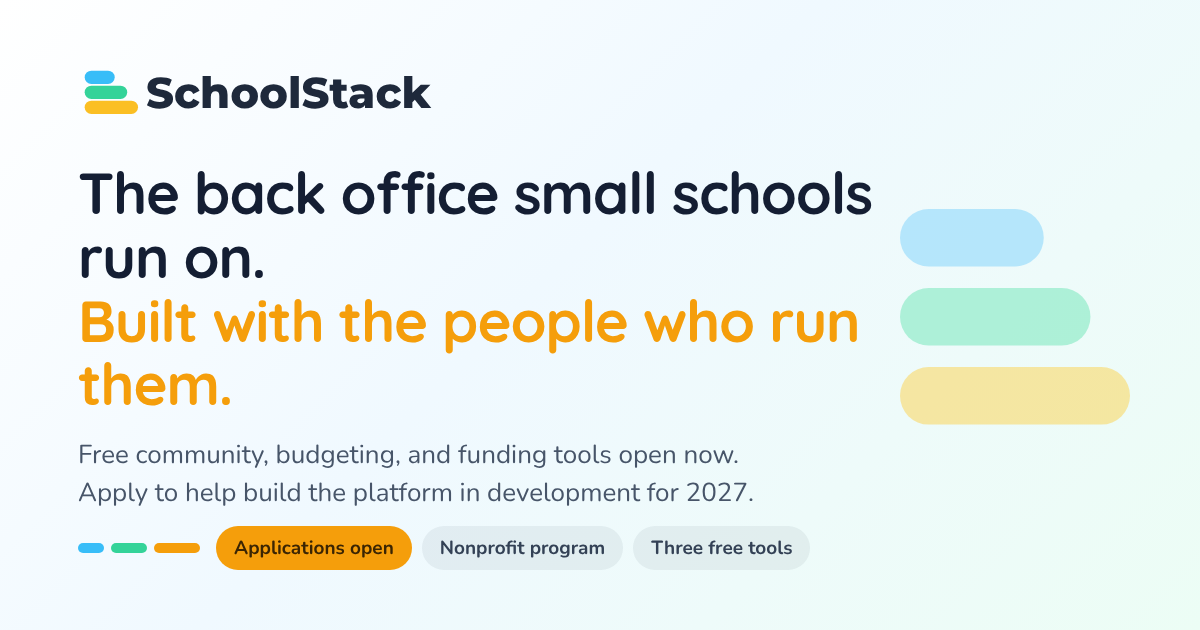
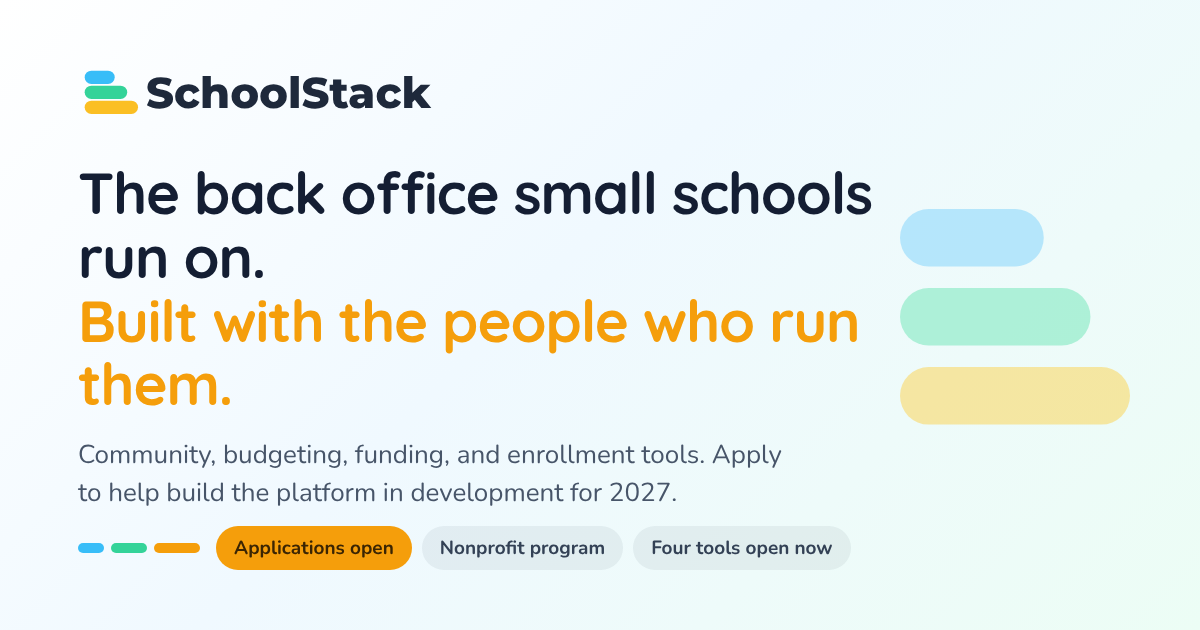
Add an Enrollment Path card and count four tools
Per the owner: four tools on the home page, the word "free" off the tools
copy, and Teal for the new card.

- A teal Enrollment Path card after Space, Budget and Access, with the
  owner's text and a "Start your audit" link to /enrollment/ in the same
  tab. No logo file exists yet, so the name is set in the same lockup as
  the others with a stacked-bar mark in teal. The grid goes two by two.
- Four tools wherever the site counts them: hero, tools section, design
  partner note, application confirmation, FAQ and its structured data,
  footer on every page, metadata and the share card (rebuilt).
- The tools section reads "Available today" and the hero button "Explore
  the tools". The FAQ's cost answer still names Space, Budget and Access.
- /enrollment redirects to /enrollment/, so both addresses open the tool.
- verify-render no longer treats "four tools" as a retired phrase: it was
  on the list while the fourth tool was Lending Lab. The Lending Lab checks
  stay.

Checked in a browser with the real headers: both addresses load the
example audit with no console errors and no sideways scroll at 390px, and
the card opens the tool.

Claude-Session: https://claude.ai/code/session_016gTnYXw1uXBTqiX4YJ5rRm

Changed region(s): [[0.0617, 0.6937, 0.6475, 0.8143], [0.5242, 0.8444, 0.7092, 0.9048]]

diff --git a/index.html b/index.html
@@ -4,7 +4,7 @@
   <meta charset="UTF-8">
   <meta name="viewport" content="width=device-width, initial-scale=1.0">
   <title>SchoolStack.ai | Back-Office Tools for Small Schools</title>
-  <meta name="description" content="Use SchoolStack's free community, budgeting, and funding tools today, or apply to help shape the connected back-office platform in development for 2027.">
+  <meta name="description" content="Use SchoolStack's community, budgeting, funding, and enrollment tools today, or apply to help shape the connected back-office platform in development for 2027.">
   <link rel="canonical" href="https://schoolstack.ai/">
   <meta name="robots" content="index, follow, max-image-preview:large, max-snippet:-1">
   <meta name="theme-color" content="#141E33">
@@ -21,7 +21,7 @@
        the text a person reads in an iMessage or Slack preview, where the job is
        to earn the tap. -->
   <meta property="og:title" content="Back-office tools for small schools, built with the people who run them.">
-  <meta property="og:description" content="Use SchoolStack's free community, budgeting, and funding tools today, or apply to help shape the connected back-office platform in development for 2027.">
+  <meta property="og:description" content="Use SchoolStack's community, budgeting, funding, and enrollment tools today, or apply to help shape the connected back-office platform in development for 2027.">
   <meta property="og:type" content="website">
   <meta property="og:url" content="https://schoolstack.ai/">
   <meta property="og:site_name" content="SchoolStack">
@@ -30,14 +30,14 @@
   <meta property="og:image:type" content="image/png">
   <meta property="og:image:width" content="1200">
   <meta property="og:image:height" content="630">
-  <meta property="og:image:alt" content="SchoolStack: the back office small schools run on. Three free tools open now. Design partner applications open for November 2026.">
+  <meta property="og:image:alt" content="SchoolStack: the back office small schools run on. Four tools open now. Design partner applications open for November 2026.">
 
   <!-- Twitter / X -->
   <meta name="twitter:card" content="summary_large_image">
   <meta name="twitter:title" content="Back-office tools for small schools, built with the people who run them.">
-  <meta name="twitter:description" content="Use SchoolStack's free community, budgeting, and funding tools today, or apply to help shape the connected back-office platform in development for 2027.">
+  <meta name="twitter:description" content="Use SchoolStack's community, budgeting, funding, and enrollment tools today, or apply to help shape the connected back-office platform in development for 2027.">
   <meta name="twitter:image" content="https://schoolstack.ai/og-image.png">
-  <meta name="twitter:image:alt" content="SchoolStack: the back office small schools run on. Three free tools open now. Design partner applications open for November 2026.">
+  <meta name="twitter:image:alt" content="SchoolStack: the back office small schools run on. Four tools open now. Design partner applications open for November 2026.">
 
   <!-- Self-hosted rather than linked from fonts.googleapis.com: no third party
        in the request path, and no blocking round trip to another origin before
@@ -60,7 +60,7 @@
         "url": "https://schoolstack.ai/",
         "email": "allison@schoolstack.ai",
         "sameAs": ["https://www.instagram.com/schoolstack.ai/"],
-        "description": "Back-office tools for small schools: community, budgeting, and funding tools today, with a connected platform in development for 2027.",
+        "description": "Back-office tools for small schools: community, budgeting, funding, and enrollment tools today, with a connected platform in development for 2027.",
         "logo": {
           "@type": "ImageObject",
           "url": "https://schoolstack.ai/icon-512.png",
@@ -91,7 +91,7 @@
             "name": "What can I use today?",
             "acceptedAnswer": {
               "@type": "Answer",
-              "text": "Three tools: Space for community intelligence and facilities, Budget for five-year financial planning, and Access for funding and policy guidance. Each works on its own and is free to use today."
+              "text": "Four tools: Space for community intelligence and facilities, Budget for five-year financial planning, Access for funding and policy guidance, and Enrollment Path for recruitment and enrollment. Each works on its own."
             }
           },
           {
@@ -180,13 +180,13 @@
     </p>
     <div class="hero-cta">
       <a href="#tools" class="btn-primary">
-        Explore the free tools
+        Explore the tools
         <svg width="16" height="16" fill="none" viewBox="0 0 24 24" stroke="currentColor" stroke-width="2.5" aria-hidden="true"><path d="M5 12h14M12 5l7 7-7 7"/></svg>
       </a>
       <a href="#design-partners" class="btn-secondary">Become a design partner</a>
     </div>
     <p class="boilerplate">
-      Space, Budget, and Access are available now. Our connected platform is in development for 2027.
+      Space, Budget, Access, and Enrollment Path are available now. Our connected platform is in development for 2027.
     </p>
     <p class="boilerplate boilerplate-org">
       SchoolStack is a program of <a href="https://www.buildinghopeimpactfund.org" target="_blank" rel="noopener noreferrer">Building Hope Impact Fund</a>, a 501(c)(3) nonprofit.
@@ -198,11 +198,11 @@
        off the public site while it gets more work; its /go/ routes stay in
        _redirects for links already shared (see tools/verify-render.mjs). -->
   <section class="section" id="tools">
-    <div class="label">Free to use today</div>
+    <div class="label">Available today</div>
     <h2>Start with the question in front of you.</h2>
     <p class="section-desc">
-      Each tool works on its own and is free to use today. Explore your community, understand your
-      numbers, or navigate school-choice funding.
+      Each tool works on its own and is ready to use today. Explore your community, understand your
+      numbers, navigate school-choice funding, or strengthen your enrollment.
     </p>
 
     <div class="stack-grid">
@@ -239,6 +239,20 @@
         <p class="tool-note">Stand-alone guide</p>
         <a class="tool-link" href="/go/access" target="_blank" rel="noopener noreferrer">
           Explore funding guidance
+          <svg width="15" height="15" fill="none" viewBox="0 0 24 24" stroke="currentColor" stroke-width="2.5" aria-hidden="true"><path d="M5 12h14M12 5l7 7-7 7"/></svg>
+        </a>
+      </article>
+
+      <!-- Enrollment Path lives on this site, so it links straight to
+           /enrollment/ in the same tab, not through a /go/ redirect. No
+           product logo file exists yet, so its name is set in text in the
+           same lockup as the others. Never call it free (owner, Nov 2026). -->
+      <article class="tool-card card-enrollment">
+        <p class="tool-wordmark"><span class="mark" aria-hidden="true"><span></span><span></span><span></span></span>SchoolStack <b>Enrollment Path</b></p>
+        <div class="tool-role">Recruitment and enrollment</div>
+        <p class="tool-body">Score how your school gets found, chosen, joined and kept. Leave with a 90-day plan and the seat math to reach your budget driver.</p>
+        <a class="tool-link" href="/enrollment/">
+          Start your audit
           <svg width="15" height="15" fill="none" viewBox="0 0 24 24" stroke="currentColor" stroke-width="2.5" aria-hidden="true"><path d="M5 12h14M12 5l7 7-7 7"/></svg>
         </a>
       </article>
@@ -449,7 +463,7 @@
       </p>
       <p>No product or finance expertise is required. We need people who know what it takes to run a school.</p>
       <p class="cohort-scope">
-        Space, Budget, and Access are free for anyone to use today, no application needed. The
+        Space, Budget, Access, and Enrollment Path are open to anyone today, no application needed. The
         cohort is for helping shape the connected platform, which is in development for 2027.
       </p>
 
@@ -601,10 +615,11 @@
           <h3 id="successHeading" tabindex="-1">Thanks for applying.</h3>
           <p>
             We'll review your information and contact selected schools about next steps. In the
-            meantime, explore the three tools available today:
+            meantime, explore the four tools available today:
             <a href="/go/space" target="_blank" rel="noopener noreferrer">Space</a>,
-            <a href="/go/budget" target="_blank" rel="noopener noreferrer">Budget</a>, and
-            <a href="/go/access" target="_blank" rel="noopener noreferrer">Access</a>.
+            <a href="/go/budget" target="_blank" rel="noopener noreferrer">Budget</a>,
+            <a href="/go/access" target="_blank" rel="noopener noreferrer">Access</a>, and
+            <a href="/enrollment/">Enrollment Path</a>.
           </p>
         </div>
       </div>
@@ -662,10 +677,11 @@
       <div class="faq-item">
         <h3>What can I use today?</h3>
         <p>
-          Three tools:
+          Four tools:
           <a href="/go/space" target="_blank" rel="noopener noreferrer">Space</a> for community intelligence and facilities,
-          <a href="/go/budget" target="_blank" rel="noopener noreferrer">Budget</a> for five-year financial planning, and
-          <a href="/go/access" target="_blank" rel="noopener noreferrer">Access</a> for funding and policy guidance. Each works on its own and is free to use today.
+          <a href="/go/budget" target="_blank" rel="noopener noreferrer">Budget</a> for five-year financial planning,
+          <a href="/go/access" target="_blank" rel="noopener noreferrer">Access</a> for funding and policy guidance, and
+          <a href="/enrollment/">Enrollment Path</a> for recruitment and enrollment. Each works on its own.
         </p>
       </div>
       <div class="faq-item">
@@ -703,6 +719,7 @@
             <li><a href="/go/space" target="_blank" rel="noopener noreferrer">Space</a></li>
             <li><a href="/go/budget" target="_blank" rel="noopener noreferrer">Budget</a></li>
             <li><a href="/go/access" target="_blank" rel="noopener noreferrer">Access</a></li>
+            <li><a href="/enrollment/">Enrollment Path</a></li>
           </ul>
         </div>
         <div class="footer-col">

diff --git a/css/site.css b/css/site.css
@@ -284,7 +284,29 @@ section[id], [id].section { scroll-margin-top: 4.5rem; }
 .btn-secondary:hover { border-color: var(--muted); transform: translateY(-1px); }
 
 /* THE STACK: 2 x 2 on desktop, one column once a card would be cramped */
-.stack-grid { display: grid; grid-template-columns: repeat(3, minmax(0, 1fr)); gap: 1.35rem; }
+/* Four tools: two by two on wide screens, one column below 900px. */
+.stack-grid { display: grid; grid-template-columns: repeat(2, minmax(0, 1fr)); gap: 1.35rem; }
+/* Enrollment Path has no logo file yet: its name in the same lockup, with
+   the stack mark in teal, sized to sit where the logo images sit. */
+.tool-wordmark {
+  display: flex;
+  align-items: center;
+  gap: 0.5rem;
+  height: 26px;
+  margin-bottom: 0.9rem;
+  font-family: var(--font-display);
+  font-weight: 700;
+  font-size: 1.05rem;
+  color: var(--ink);
+}
+.tool-wordmark b { font-weight: 700; color: var(--c-accent); }
+/* The product mark: three stacked bars, left-aligned, growing, as in the
+   Space, Budget and Access logo files. */
+.tool-wordmark .mark { display: grid; gap: 2px; width: 22px; flex-shrink: 0; }
+.tool-wordmark .mark span { display: block; height: 5px; border-radius: 3px; }
+.tool-wordmark .mark span:nth-child(1) { width: 60%; background: var(--c-light); }
+.tool-wordmark .mark span:nth-child(2) { width: 80%; background: var(--c-mid); }
+.tool-wordmark .mark span:nth-child(3) { width: 100%; background: var(--c-dark); }
 .tool-card {
   background: linear-gradient(180deg, var(--c-tint) 0%, rgba(255,255,255,0) 58%), var(--panel);
   border: 1px solid var(--hairline);
@@ -361,6 +383,7 @@ section[id], [id].section { scroll-margin-top: 4.5rem; }
 
 .card-space   { --c-light: var(--space-light);   --c-mid: var(--space-mid);   --c-dark: var(--space-dark);   --c-accent: var(--space-dark);   --c-tint: rgba(125,211,252,0.30); }
 .card-budget  { --c-light: var(--budget-light);  --c-mid: var(--budget-mid);  --c-dark: var(--budget-dark);  --c-accent: var(--budget-dark);  --c-tint: rgba(134,239,172,0.34); }
+.card-enrollment { --c-light: #5EEAD4; --c-mid: #14B8A6; --c-dark: #0D9488; --c-accent: #0F766E; --c-tint: rgba(94,234,212,0.28); }
 .card-access  { --c-light: var(--access-light);  --c-mid: var(--access-mid);  --c-dark: var(--access-dark);  --c-accent: var(--access-dark);  --c-tint: rgba(196,181,253,0.32); }
 
 /* DURABILITY SNAPSHOT. Behaviour lives in js/budget-calculator.js; this is

diff --git a/about.html b/about.html
@@ -25,7 +25,7 @@
   <meta property="og:image:type" content="image/png">
   <meta property="og:image:width" content="1200">
   <meta property="og:image:height" content="630">
-  <meta property="og:image:alt" content="SchoolStack: the back office small schools run on. Three free tools open now. Design partner applications open for November 2026.">
+  <meta property="og:image:alt" content="SchoolStack: the back office small schools run on. Four tools open now. Design partner applications open for November 2026.">
   <meta name="twitter:card" content="summary_large_image">
   <meta name="twitter:title" content="About Us | SchoolStack">
   <meta name="twitter:description" content="Meet the people behind SchoolStack, a program of Building Hope Impact Fund bringing practical digital tools and human support to small-school leaders.">
@@ -233,6 +233,7 @@
             <li><a href="/go/space" target="_blank" rel="noopener noreferrer">Space</a></li>
             <li><a href="/go/budget" target="_blank" rel="noopener noreferrer">Budget</a></li>
             <li><a href="/go/access" target="_blank" rel="noopener noreferrer">Access</a></li>
+            <li><a href="/enrollment/">Enrollment Path</a></li>
           </ul>
         </div>
         <div class="footer-col">

diff --git a/privacy.html b/privacy.html
@@ -25,7 +25,7 @@
   <meta property="og:image:type" content="image/png">
   <meta property="og:image:width" content="1200">
   <meta property="og:image:height" content="630">
-  <meta property="og:image:alt" content="SchoolStack: the back office small schools run on. Three free tools open now. Design partner applications open for November 2026.">
+  <meta property="og:image:alt" content="SchoolStack: the back office small schools run on. Four tools open now. Design partner applications open for November 2026.">
   <meta name="twitter:card" content="summary_large_image">
   <meta name="twitter:title" content="Privacy policy | SchoolStack">
   <meta name="twitter:description" content="How schoolstack.ai handles your information: no cookies, no tracking scripts, and no selling your details.">
@@ -212,6 +212,7 @@
             <li><a href="/go/space" target="_blank" rel="noopener noreferrer">Space</a></li>
             <li><a href="/go/budget" target="_blank" rel="noopener noreferrer">Budget</a></li>
             <li><a href="/go/access" target="_blank" rel="noopener noreferrer">Access</a></li>
+            <li><a href="/enrollment/">Enrollment Path</a></li>
           </ul>
         </div>
         <div class="footer-col">

diff --git a/terms.html b/terms.html
@@ -25,7 +25,7 @@
   <meta property="og:image:type" content="image/png">
   <meta property="og:image:width" content="1200">
   <meta property="og:image:height" content="630">
-  <meta property="og:image:alt" content="SchoolStack: the back office small schools run on. Three free tools open now. Design partner applications open for November 2026.">
+  <meta property="og:image:alt" content="SchoolStack: the back office small schools run on. Four tools open now. Design partner applications open for November 2026.">
   <meta name="twitter:card" content="summary_large_image">
   <meta name="twitter:title" content="Terms of use | SchoolStack">
   <meta name="twitter:description" content="The terms for using schoolstack.ai, a program of Building Hope Impact Fund.">
@@ -174,6 +174,7 @@
             <li><a href="/go/space" target="_blank" rel="noopener noreferrer">Space</a></li>
             <li><a href="/go/budget" target="_blank" rel="noopener noreferrer">Budget</a></li>
             <li><a href="/go/access" target="_blank" rel="noopener noreferrer">Access</a></li>
+            <li><a href="/enrollment/">Enrollment Path</a></li>
           </ul>
         </div>
         <div class="footer-col">

diff --git a/tools/og-image.html b/tools/og-image.html
@@ -124,7 +124,7 @@
   <div class="content">
     <h1>The back office small schools run on.<br><em>Built with the people who run them.</em></h1>
     <p class="sub">
-      Free community, budgeting, and funding tools open now.
+      Community, budgeting, funding, and enrollment tools.
       Apply to help build the platform in development for 2027.
     </p>
   </div>
@@ -133,7 +133,7 @@
     <span class="bars" aria-hidden="true"><span></span><span></span><span></span></span>
     <span class="chip hi">Applications open</span>
     <span class="chip">Nonprofit program</span>
-    <span class="chip">Three free tools</span>
+    <span class="chip">Four tools open now</span>
   </div>
 </body>
 </html>

diff --git a/CLAUDE.md b/CLAUDE.md
@@ -187,7 +187,7 @@ Why each exists:
   attributes passed happily. This one compares each image's *rendered* aspect
   ratio to its natural one, and cross-checks every `/go/` link against
   `_redirects` so a typo cannot become a dead CTA on a live page. It renders
-  `/` and `/about`, fails if retired words ("Lending Lab", "four tools")
+  every page, fails if retired words ("Lending Lab", "check your fit")
   reach a reader, and fails if a nav link lands its heading under the fixed
   nav.
 - **verify-calculator** — the durability snapshot's math lives in
@@ -286,9 +286,14 @@ measures and no others.
 
 ## 7. Product facts copy must not contradict (November 2026)
 
-- **Three tools are promoted: Space, Budget, Access.** Lending Lab is not
-  promoted on schoolstack.ai while it gets more work: no card, nav, footer,
-  FAQ, metadata or share-card mention. Do not touch the Lending Lab app.
+- **Four tools are promoted: Space, Budget, Access and Enrollment Path.**
+  The first three are separate sites reached through `/go/`; Enrollment
+  Path lives here at `/enrollment/` and its card links there directly, in
+  the same tab. **Never call Enrollment Path free** (owner, November 2026):
+  the tools section reads "Available today", not "Free to use today". Lending
+  Lab is not promoted on schoolstack.ai while it gets more work: no card,
+  nav, footer, FAQ, metadata or share-card mention. Do not touch the Lending
+  Lab app.
 - **QuickBooks Online is the accounting system of record.** Never present
   Advanced as required. The owner's guidance for nonprofits: review Advanced
   for the categorization Form 990 preparation needs. The FAQ says so.

diff --git a/CHANGELOG.md b/CHANGELOG.md
@@ -3,6 +3,20 @@
 Changes to schoolstack.ai, newest first. Dates are when the change was
 prepared for review; Netlify deploys on merge to `main`.
 
+## 2026-11-15: Enrollment Path card on the home page
+Added Enrollment Path at /enrollment and a card on the home page.
+- A teal Enrollment Path card after Space, Budget and Access ("Start your
+  audit", same tab). The grid is two by two on wide screens.
+- Four tools everywhere the site counts them: hero, tools section, design
+  partner note, application confirmation, FAQ and its structured data,
+  footer, metadata and the share card. "Free" is off the tools copy: the
+  section reads "Available today" and the hero button "Explore the tools".
+- `/enrollment` redirects to `/enrollment/`, so both addresses open the
+  tool.
+- Files: `index.html`, `about.html`, `privacy.html`, `terms.html`,
+  `css/site.css`, `_redirects`, `og-image.png`, `tools/og-image.html`,
+  `tools/verify-render.mjs`, `CLAUDE.md`, `CHANGELOG.md`.
+
 ## 2026-11-15: Enrollment Path at /enrollment/
 - Added the owner's Enrollment Path tool as a stand-alone page: a
   five-stage enrollment audit, the forces that move families, a 90-day plan,
